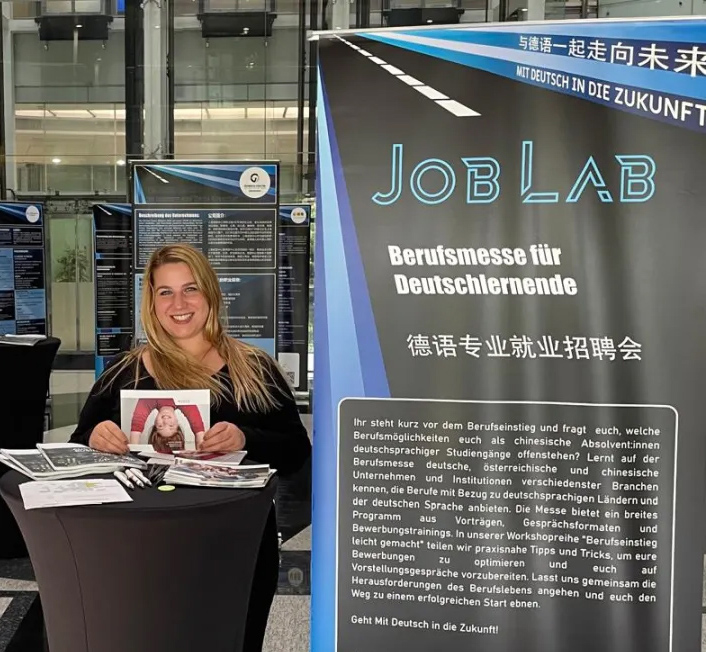
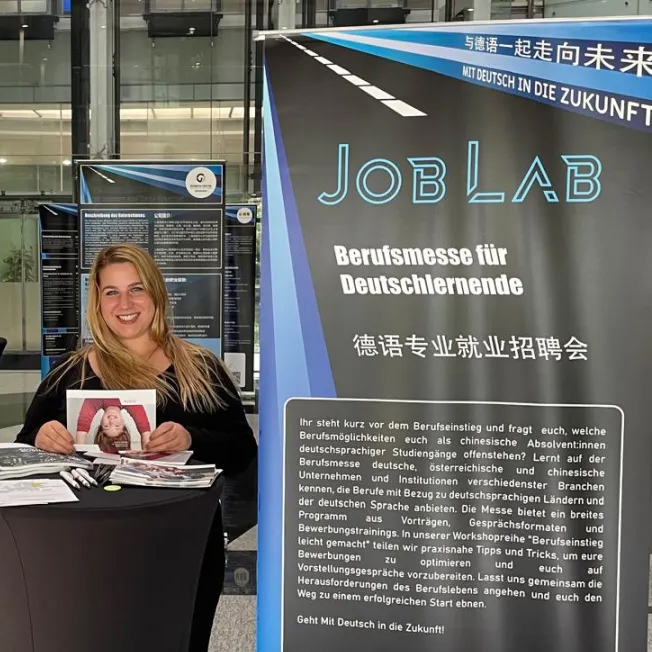
Bilder verbessert

diff --git a/guangzhou.html b/guangzhou.html
@@ -35,10 +35,10 @@
                 <p><em>Das Angebot ist <strong>kostenfrei</strong> und eine <strong>Anmeldung</strong> ist <strong>nicht erforderlich</strong>.</em></p>
                 <br><br>
                 <div>
-                    <img src="imagenes/fotos/joblab-foto-03.png" class="fotos-joblab">
+                    <img src="imagenes/fotos/joblab-foto-02.jpg" class="fotos-joblab">
                 </div>
                 <div>
-                    <img src="imagenes/fotos/joblab-foto-03b.png" class="fotos-joblab-b">
+                    <img src="imagenes/fotos/joblab-foto-02-b.jpg" class="fotos-joblab-b">
                 </div>
             </div >
             <div class="teilnehmende-unternehmen">

diff --git a/styles/style.css b/styles/style.css
@@ -821,7 +821,7 @@ table {
     width: 100%;
     display: flex;
     align-items: center;
-    border-radius: 15px;
+    border-radius: 50%;
     margin-top: 100px;
 }
  }
